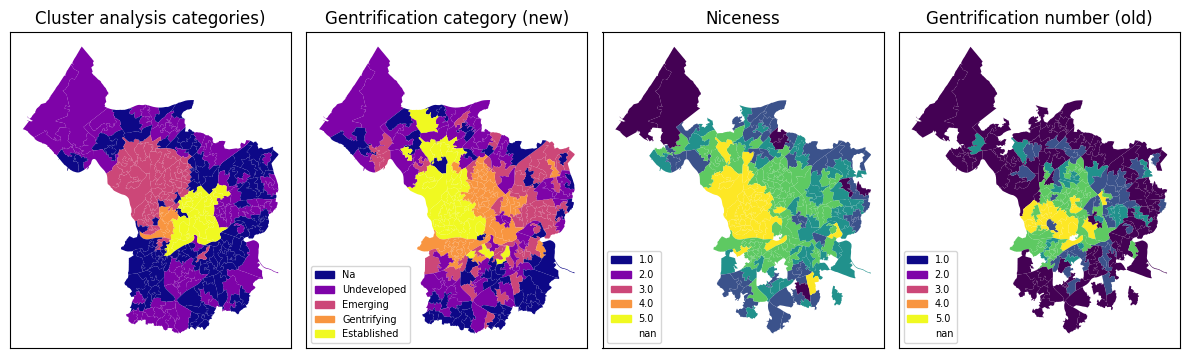
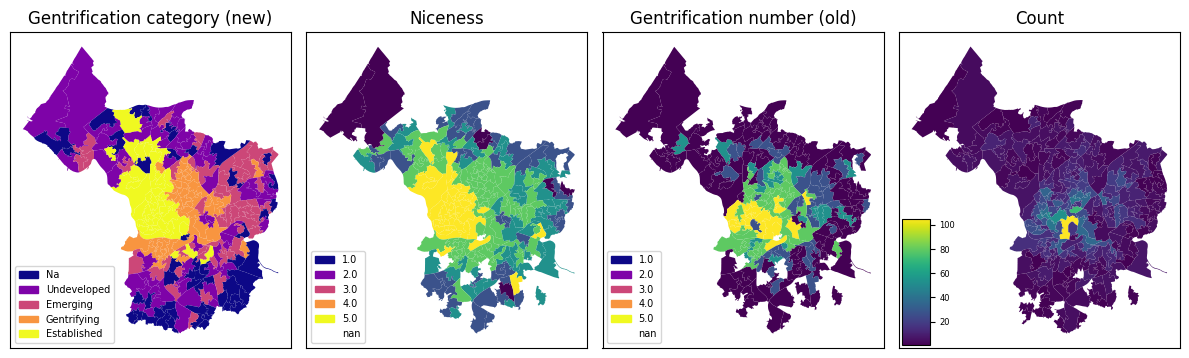
refining 2025 GISRUK presentation

diff --git a/p/2025-GISRUK-INTEGRATE_LLM.html b/p/2025-GISRUK-INTEGRATE_LLM.html
@@ -140,7 +140,7 @@
                     <p>Download listings from Inside Airbnb</p>
                     <p>Prompt the LLM to read the text and estimate how 'suggestive' the descriptions
                     are of gentrification</p>
-                    <p>LLM outputs a number for each listing (and an 'explanation' for its score)</p>
+                    <p>LLM returns a number (the score) for each listing (and an 'explanation' for its score)</p>
                     <p>Analyse the gentrification scores...</p>
                 </section>
                 
@@ -193,8 +193,9 @@
 					</div>
                 </section>
                 
-                <section id="results">
-                    <h2>Preliminary Results</h2>
+                <section id="results1">
+                    <h2>Preliminary Results (1)</h2>
+                    <h3>Spatial distribution of the gentrification scores</h3>
                     <img data-src="../figures/paper_figures/2025-GISRUK-INTEGRATE_LLM/listing_scores.png"
                          alt="Map of listing gentrification scores. Higher scores tend to be 
                               in the centre of the city"
@@ -202,14 +203,25 @@
                          />
                 </section>
                 
+                <section id="results2">
+                    <h2>Preliminary Results (2)</h2>
+                    <h3>LLM's 'explanation' of the scores</h3>
+                    <p>The LLM is asked to explain why it gives its chosen score</p>
+                    <p>Basically the explanations seem reasonable</p>
+                    <p>BUT: not clear whether alternative explanations for different scores
+                    will also appear reasonable.</p>
+                    <p class="l2">(More on validation later..)</p>
+                </section>
+                
                 <section id="stochasticity">
-                    <h2>Stochasticity</h2>
+                    <h2>Preliminary Results (3)</h2>
+                    <h3>Stochasticity</h3>
                     <p>The LLM is probabilistic: its output can vary randomly</p>
                     <p>To test this we run the estimation procedure 3 times with identical
                     LLM parameters</p>
                     <p>Fleiss Kappa statistic well suited to estimate annotator variability where
                     there are more than two annotators</p>
-                    <p>Score = 0.74 suggests "substantial" agreement</p>
+                    <p>Score = 0.74 suggests "substantial" agreement across the three runs</p>
                 </section>
                 
                 <section id="future-gentrification">
@@ -226,9 +238,9 @@
 				<section id="future-gentrification2">
                     <h2>Immediate future work (1)</h2>
                     <h3>Defining gentrification</h3>
-                    <img data-src="../figures/paper_figures/2025-GISRUK-INTEGRATE_LLM/new_gentrification_classification.jpg"
+                    <img data-src="../figures/paper_figures/2025-GISRUK-INTEGRATE_LLM/new_gentrification_classification.png"
                          alt="Map showing distribution of 'new' gentrification score"
-                         style="width: 80%"
+                         style="width: 90%"
                          />
                 </section>
 
@@ -241,6 +253,14 @@
                     <p>Are the underlying demographics consistent with our estimates of gentrification?</p>
                     <img data-src="../figures/paper_figures/2025-GISRUK-INTEGRATE_LLM/rose_diagrams.png"
                          alt="Rose diagrams showing the preliminary classification results"
+                         />
+                    <p>(But: which is <i>right</i>?)</p>
+                </section>
+                
+                <section id="future-validation2">
+                    <img data-src="../figures/paper_figures/2025-GISRUK-INTEGRATE_LLM/rose_diagrams2.png"
+                         alt="Rose diagrams showing the preliminary classification results"
+                         style="width: 60%;"
                          />
                 </section>
                 